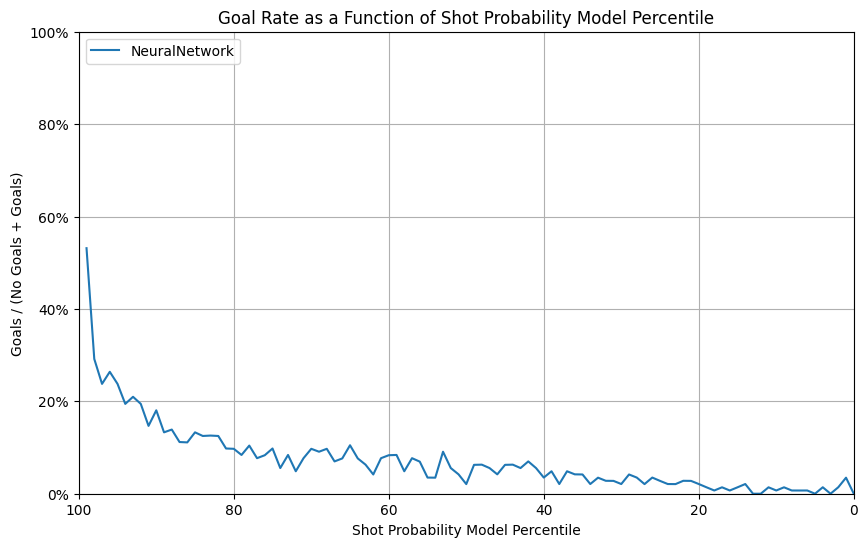
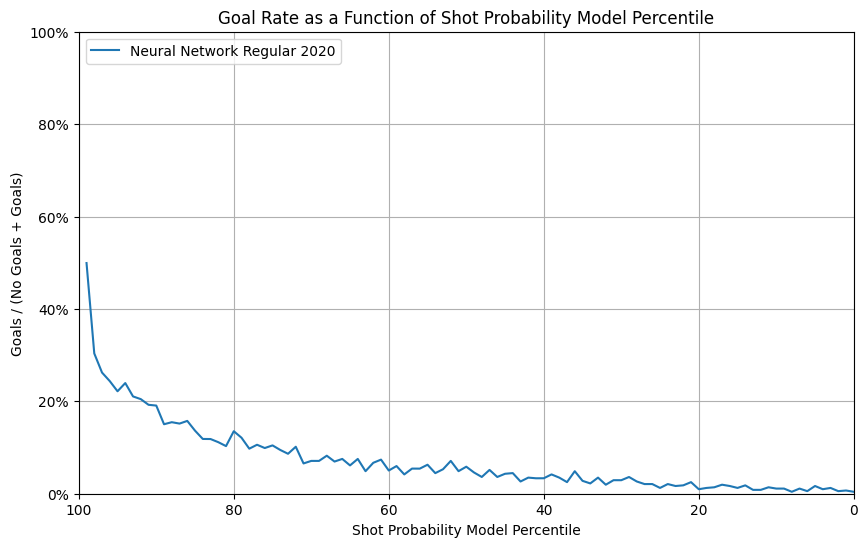
Fxied Section 7 for NN model

Changed region(s): [[0.0933, 0.6527, 0.9954, 0.9013], [0.2177, 0.0622, 0.4044, 0.1243], [0.0933, 0.4662, 0.1244, 0.5283]]

diff --git a/_posts/2024-11-13-milestone-2.md b/_posts/2024-11-13-milestone-2.md
@@ -523,7 +523,7 @@ As we can see in the results, the loss and the ROC AUC have reached a limit afte
 
 
 #### Result for for model of section 6
-[Neural Network test results on W&B](https://wandb.ai/IFT6758-2024-B04/ms2-q7-model6-regular?nw=nwusersergemalo)
+[Neural Network test results on W&B](https://wandb.ai/IFT6758-2024-B04/ms2-q7-model6-test-Regular2020-V4?nw=nwusersergemalo)
 <table>
   <thead>
   </thead>
@@ -543,7 +543,7 @@ As we can see in the results, the loss and the ROC AUC have reached a limit afte
 ### 7.2 - Compare models with Test set Playoff Season 2020-2021
 
 #### Result for for model of section 6
-[Neural Network test results on W&B](https://wandb.ai/IFT6758-2024-B04/ms2-q7-model6-playoffs?nw=nwusersergemalo)
+[Neural Network test results on W&B](https://wandb.ai/IFT6758-2024-B04/ms2-q7-model6-test-Playoffs2020-V4?nw=nwusersergemalo)
 <table>
   <thead>
   </thead>
